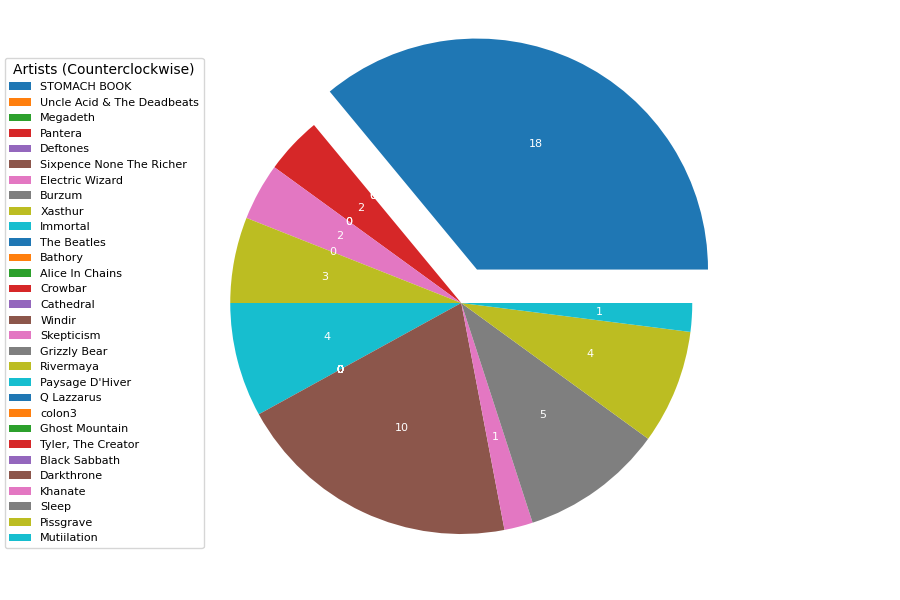
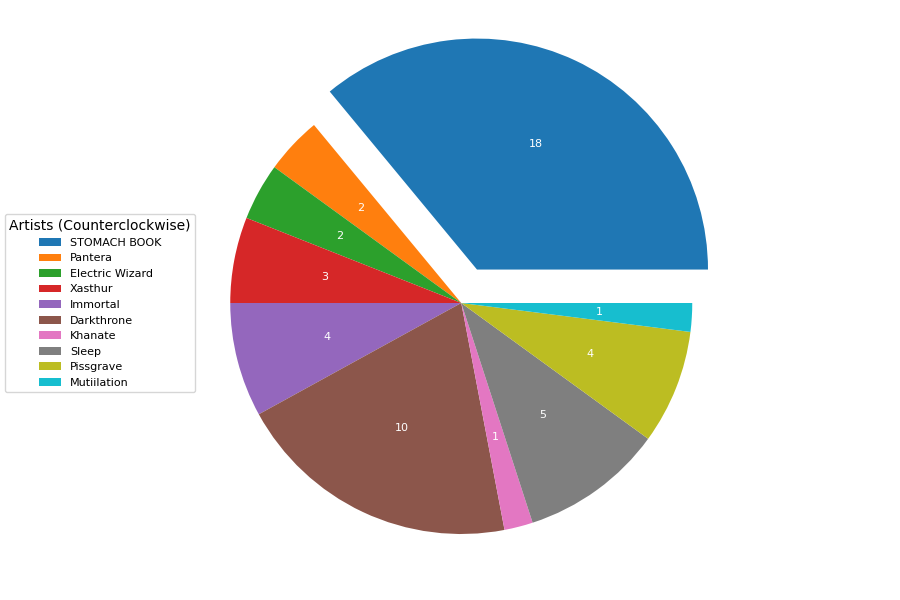
Added 'average values of top songs page', reworked format of average top song data tsv, togglable flip between tthe two pie charts in top10 page

Changed region(s): [[0.0, 0.09, 0.2178, 0.9], [0.2489, 0.21, 0.5289, 0.69]]

diff --git a/templates/top10.html b/templates/top10.html
@@ -31,15 +31,28 @@
         </div>
 
         <div id="piecharts">
-            <img class="bar" src="/static/chart1.png">
-            <img class="bar" src="/static/chart2.png">
+            <button id="chart_btn">Exclude Liked Songs</button>
+            <img id="chart" class="bar" src="/static/chart1.png">
         </div>
 
-        <button id="to_avg_data">Next</button>
-        <script>
-            document.getElementById("to_avg_data").addEventListener("click", function() {
-                window.location.href = "templates/avg_data.html"
-            })
-        </script>
+        <form action="/avg_data">
+            <input type="submit" value="Next">
+        </form>
     </body>
+    <script>
+        const chartImg = document.getElementById("chart");
+        const btn = document.getElementById("chart_btn");
+        var chart1 = true;
+
+        btn.addEventListener("click", function() {
+            if (chart1) {
+                chartImg.src = "static/chart2.png";
+                btn.innerText = "Include Liked Songs";
+            } else {
+                chartImg.src = "static/chart1.png";
+                btn.innerText = "Exclude Liked Songs";
+            }
+            chart1 = !chart1;
+        })
+    </script>
 </html>

diff --git a/templates/home.html b/templates/home.html
@@ -14,10 +14,10 @@
             <br><br>
 
             <label for="client_secret">Client Secret:</label>
-            <input type="text" id="client_secret" name="client_secret" required>
+            <input type="password" id="client_secret" name="client_secret" required>
             <br><br>
 
-            <label for="client_secret">Redirect URI:</label>
+            <label for="redirect_uri">Redirect URI:</label>
             <input type="text" id="redirect_uri" name="redirect_uri" required>
             <br><br>
 
@@ -40,7 +40,7 @@
     <script>
         track_limit = document.getElementById("track_limit");
         track_limit_value = document.getElementById("track_limit_value");
-        addEventListener("change", function() {
+        addEventListener("input", function() {
             track_limit_value.innerText = track_limit.value;
         })
         track_limit_value.innerText = track_limit.value;

diff --git a/static/style.css b/static/style.css
@@ -6,6 +6,13 @@ body {
     font-size: 1.15w;
 }
 
+button, input, select {
+    background-color: rgba(100, 100, 100, 0.75);
+    border-style: groove;
+    border-radius: 10px;
+    color: rgb(225, 225, 225);
+}
+
 #top10s {
     display: flex;
     margin-bottom: 10px;
@@ -41,6 +48,8 @@ body {
 }
 
 #piecharts {
+    max-width: 60%;
+    align-items: center;
     margin-left: auto;
     margin-right: auto;
 }
@@ -49,4 +58,11 @@ body {
     background-color: rgba(50, 50, 50, 0.5);
     border-radius: 25px;
     padding: 10px;
+}
+
+.avg_data_container {
+    text-align: left;
+    margin-left: 20px;
+    margin-right: 20px;
+    font-size: 1.5vw;
 }

diff --git a/templates/avg_data.html b/templates/avg_data.html
@@ -6,6 +6,18 @@
         <link href="/static/style.css" rel="stylesheet" type="text/css" media="all">
     </head>
     <body>
-        <p>Hi :3</p>
+        <h1>Your Music Taste</h1>
+
+        <div class="avg_data_container">
+            <h2>Average values of your top songs</h2>
+            <hr>
+            {% for field in avg_info %}
+                <div>
+                    <h3>{{field|capitalize}}: {{avg_info[field][0]}} {{avg_info[field][1]}}</h4>
+                    <p>{{responses[field]}}</p>
+                    <hr>
+                </div>
+            {% endfor %}
+        </div>
     </body>
 </html>

diff --git a/app.py b/app.py
@@ -70,7 +70,18 @@ def top10():
         'tempo': 0,
         'valence': 0,
         'duration_ms': 0,
-        'popularity': 0,
+        'popularity': 0
+    }
+    avg_info_units = {
+        'acousticness': '/ 1',
+        'danceability': '/ 1',
+        'energy': '/ 1',
+        'instrumentalness': '/ 1',
+        'loudness': 'db (-60 to 0)',
+        'tempo': 'bpm (0-250)',
+        'valence': '/ 1 happiness level',
+        'duration_ms': '(minutes:seconds.milliseconds)',
+        'popularity': '(0-100)'
     }
     years = []
     artist_appearances = {}
@@ -119,10 +130,12 @@ def top10():
         avg_info[info] /= total_tracks_with_data
     avg_info['popularity'] /= albums_with_popularity_data
 
+    data = []
+    for info in avg_info:
+        data.append([info, avg_info[info], avg_info_units[info]])
     with open('data/avg_data.tsv', 'w', newline='') as file:
-        writer = csv.DictWriter(file, fieldnames=list(avg_info.keys()), delimiter='\t')
-        writer.writeheader()
-        writer.writerows([avg_info])
+        writer = csv.writer(file, delimiter='\t')
+        writer.writerows(data)
 
     with open('data/years_listened.txt', 'w') as file:
         for year in years:
@@ -199,6 +212,8 @@ def top10():
     labels = []
     sizes = []
     for info in artist_appearances:
+        if int(info[2]) == 0:
+            continue
         sizes.append(int(info[2]))
         labels.append(info[0])
     greatest_slice = max(sizes)
@@ -225,19 +240,22 @@ def top10():
 @app.route('/avg_data')
 def avg_data():
     avg_info = {}
-    with open('data/avg_data.txt', 'r') as file:
+    with open('data/avg_data.tsv', 'r') as file:
         for line in file:
             line_split = line.split('\t')
-            avg_info[line_split[0]] = float(line_split[1])
+            field = line_split[0]
+            value = line_split[1]
+            units = line_split[2]
+            avg_info[field] = [float(value), units]
 
     years = []
-    with open('data/years.txt', 'r') as file:
+    with open('data/years_listened.txt', 'r') as file:
         for line in file:
             years.append(int(line))
 
     responses = {}
 
-    acousticness = avg_info['acousticness']
+    acousticness = avg_info['acousticness'][0]
     if acousticness < 0.5:
         responses['acousticness'] = "You seem to like music with electronic, digital, or amplified elements the best!"
     elif acousticness < 0.8:
@@ -245,9 +263,9 @@ def avg_data():
     else:
         responses['acousticness'] = "Seems you have a preference for purely acoustic music!"
 
-    danceability = avg_info['danceability']
+    danceability = avg_info['danceability'][0]
     if danceability < 0.4:
-        responses['danceability'] = "Your songs seems hard to dance to..."
+        responses['danceability'] = "Your songs seem hard to dance to..."
     elif danceability < 0.65:
         responses['danceability'] = "If you try very hard, you <i>might</i> be able to dance to your songs..."
     elif danceability < 0.8:
@@ -255,7 +273,7 @@ def avg_data():
     else:
         responses['danceability'] = "Your songs were made to be danced to!"
 
-    energy = avg_info['energy']
+    energy = avg_info['energy'][0]
     if energy < 0.3:
         responses['energy'] = "You don't seem to be the energetic type"
     elif energy < 0.55:
@@ -265,7 +283,7 @@ def avg_data():
     else:
         responses['energy'] = "Your music is very energetic!"
 
-    instrumentalness = avg_info['instrumentalness']
+    instrumentalness = avg_info['instrumentalness'][0]
     if instrumentalness < 0.3:
         responses['instrumentalness'] = "Either you're fan of clear rap or big on singing. You love to be able to hear vocals!"
     elif instrumentalness < 0.5:
@@ -275,7 +293,7 @@ def avg_data():
     else:
         responses['instrumentalness'] = "You much prefer instrumental music. Instruments over the voice!"
 
-    loudness = avg_info['loudness']
+    loudness = avg_info['loudness'][0]
     if loudness < -25:
         responses['loudness'] = "Your music is very quiet... Perhaps a fan of ambient or calming music?"
     elif loudness < -15:
@@ -287,9 +305,9 @@ def avg_data():
     elif loudness < -5:
         responses['loudness'] = "You like it loud!! Most likely a rock, metal, or EDM fan!"
     else:
-        responses['loudness'] = "You like it really loud!!! Most definitely a fan of metal, hardcore EDM, or maybe even noise music!"
+        responses['loudness'] = "You like it really loud!!! Most definitely a fan of metal, hardcore EDM, or other loud genres!"
 
-    tempo = avg_info['tempo']
+    tempo = avg_info['tempo'][0]
     if tempo < 60:
         responses['tempo'] = "Most of your top songs are slower than a clock ticking!"
     elif tempo < 109:
@@ -303,13 +321,13 @@ def avg_data():
     else:
         responses['tempo'] = "You like your songs really fast!"
 
+    valence = avg_info['valence'][0]
     time_range_responses = {
         "short_term": "The past week has been ",
         "medium_term": "The past 6 months have been ",
         "long_term": "The past year has been "
     }
     time_range_response = time_range_responses[time_range]
-    valence = avg_info['valence']
     if valence < 0.25:
         responses['valence'] = time_range_response + "very unkind to you. Whatever emotions your top songs have, they definitely aren't happiness"
     elif valence < 0.5:
@@ -319,7 +337,7 @@ def avg_data():
     else:
         responses['valence'] = time_range_response + "pretty good! Your top songs seem to be pretty happy and positive"
 
-    duration_m = avg_info['duration_ms'] / 60000
+    duration_m = avg_info['duration_ms'][0] / 60000
     if duration_m < 1.5:
         responses['duration_m'] = "Most of your favorite tracks aren't even a minute long... You are absolutely a grindcore fan or are listening to sound effects."
     elif duration_m < 4.5:
@@ -327,25 +345,21 @@ def avg_data():
     elif duration_m < 8:
         responses['duration_m'] = "You like long songs, but not too long, I see"
     elif duration_m < 12:
-        responses['duration_m'] = "Your in for the long run!"
+        responses['duration_m'] = "You're in for the long run!"
     else:
         responses['duration_m'] = "Your music must send you in a trance if they go on for this long..."
 
-    popularity = avg_info['popularity']
-    if popularity < 0.1:
+    popularity = avg_info['popularity'][0]
+    if popularity < 10:
         responses['popularity'] = "You are deep underground, no one knows your songs!"
-    elif popularity < 0.25:
+    elif popularity < 25:
         responses['popularity'] = "Most of your music is quite underground"
-    elif popularity < 0.5:
+    elif popularity < 50:
         responses['popularity'] = "Your top songs may be popular in specific spaces, but not quite mainstream"
-    elif popularity < 0.8:
+    elif popularity < 80:
         responses['popularity'] = "Your top songs are popular, but not mainstream!"
     else:
         responses['popularity'] = "Your top songs are known by the masses!"
-
-    for info in avg_info:
-        avg_info[info] = float(np.round(avg_info[info]), 3)
-        info.capitalize()
 
     eras = {
         (0, 1919): 0,
@@ -378,10 +392,19 @@ def avg_data():
             if year >= era[0] and year <= era[1]:
                 eras[era] += 1
     most_listened_era = max(eras, key=eras.get)
-    avg_info['Most Listened Era'] = f"{most_listened_era[0] - most_listened_era[1]}"
+    avg_info['years'] = [f"{most_listened_era[0]} - {most_listened_era[1]}", "period"]
     responses['years'] = eras_responses[most_listened_era]
 
-    render_template('avg_data.html', avg_info=avg_info, responses=responses)
+    seconds = np.round((duration_m % 1) * 60, 2)
+    avg_info['duration_m'] = [str(int(duration_m)) + ":" + str(seconds), avg_info['duration_ms'][1]]
+    avg_info.pop('duration_ms')
+
+    for info in avg_info:
+        value = avg_info[info][0]
+        if isinstance(value, float):
+            avg_info[info][0] = float(np.round(value, 3))
+
+    return render_template('avg_data.html', avg_info=avg_info, responses=responses)
 
 def get_audio_features(id):
     url = "https://api.reccobeats.com/v1/audio-features?ids=" + id
@@ -404,4 +427,4 @@ def get_album_popularity(id):
     return popularity[0]['popularity']
 
 if __name__ == '__main__':
-    app.run(debug=True)
+    app.run(threaded=True, debug=True)
